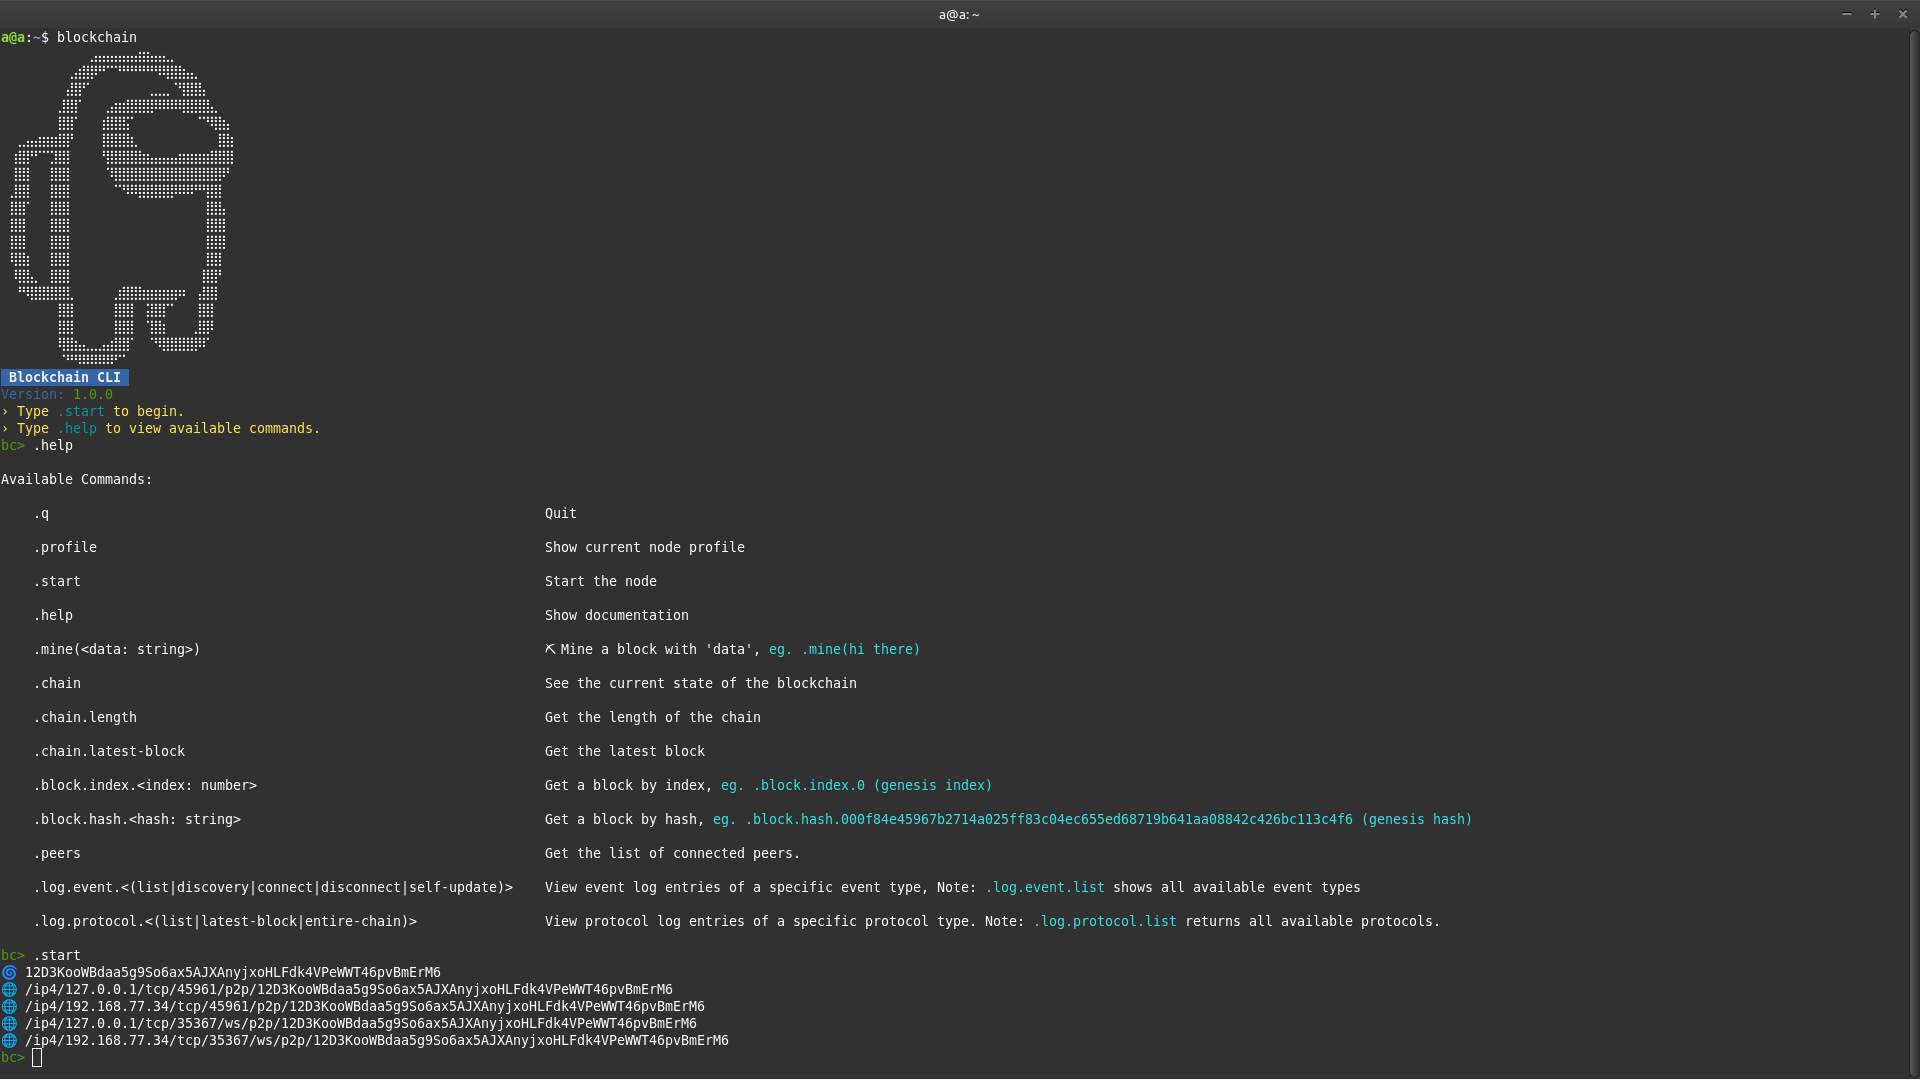
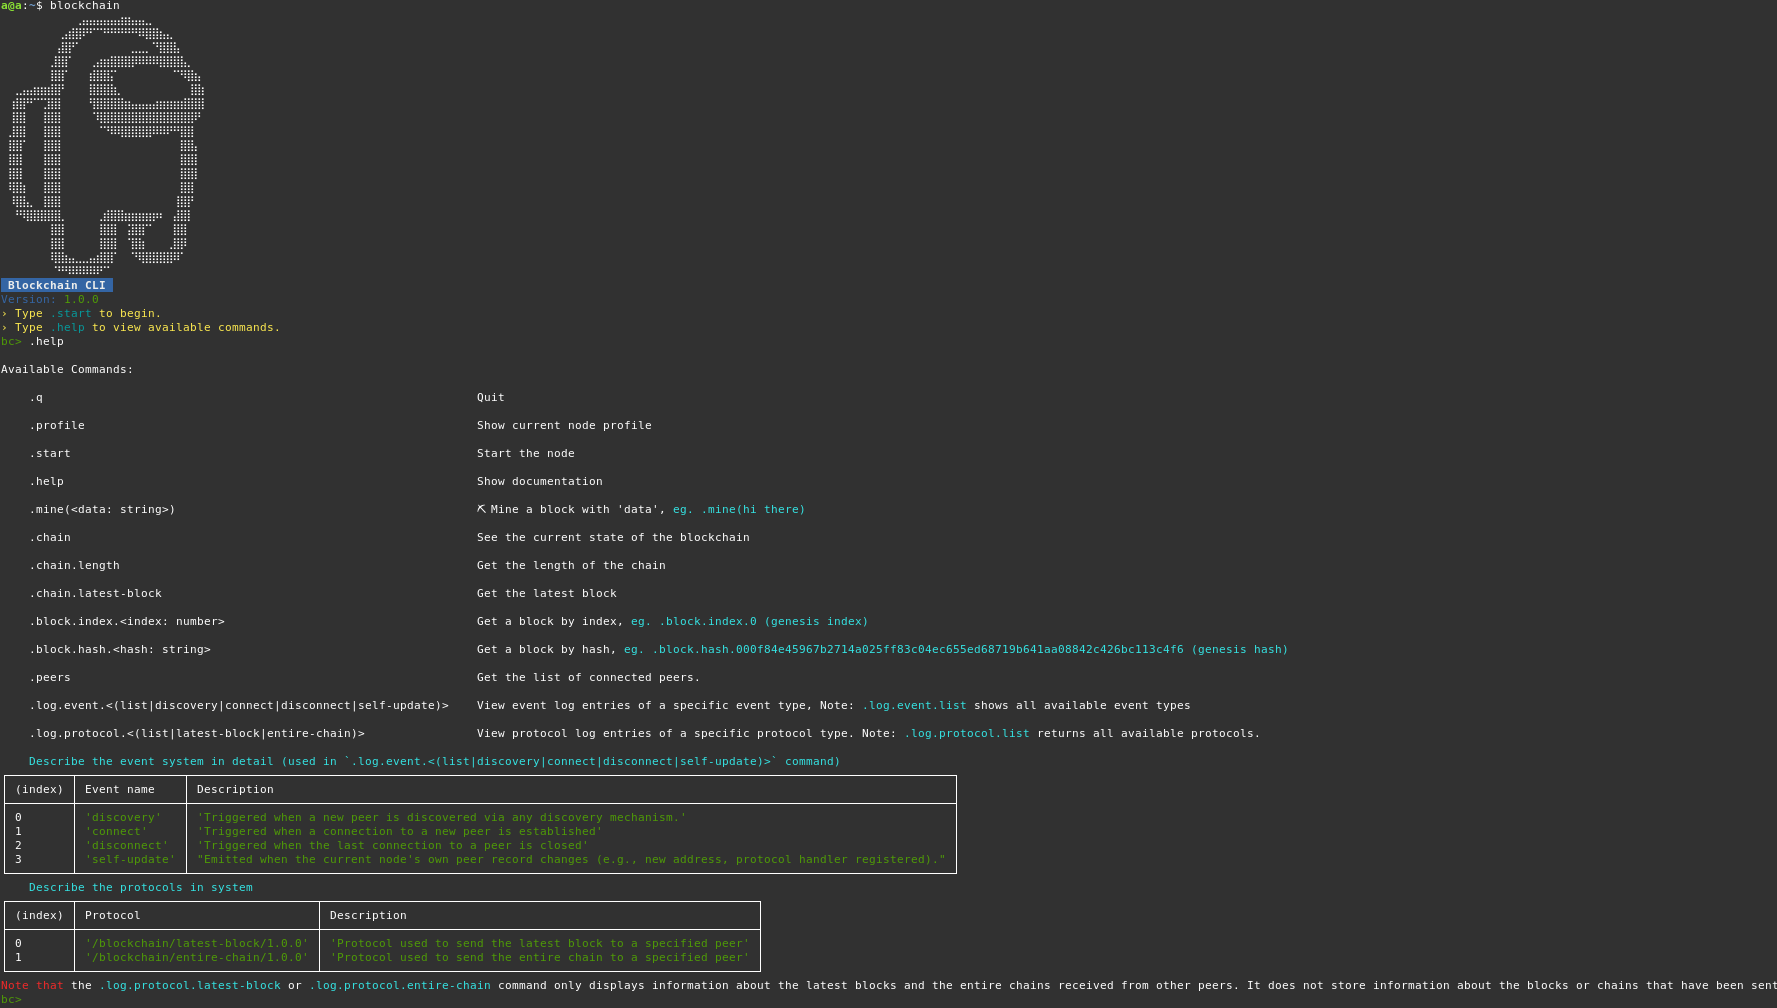
update readme and .help command

diff --git a/src/Node.ts b/src/Node.ts
@@ -195,7 +195,7 @@ class Node {
                 this.node?.peerStore.patch(peer, {
                     multiaddrs: multiaddrs
                 });
-                await this.requestLatestBlock(conn.detail.id);
+                await this.sendLatestBlock(conn.detail.id);
 
                 await updatePeerEventsLog(this.peerEventsLogFilePath, Date.now(), 'discovery', data);
 
@@ -263,7 +263,7 @@ class Node {
                 throw new Error("Error: Not started");
             }
             for (const peer of await this.node.peerStore.all()) {
-                await this.requestLatestBlock(peer.id);
+                await this.sendLatestBlock(peer.id);
             }
         } catch (e: any) {
             console.error(e.message || "BROADCAST ERROR");
@@ -286,7 +286,7 @@ class Node {
         }
     }
 
-    async requestLatestBlock(id: PeerId) {
+    async sendLatestBlock(id: PeerId) {
         try {
             if (this.node == null) {
                 throw new Error("Error: Not started");

diff --git a/README.md b/README.md
@@ -1,1 +1,1 @@
-![demo-1](./images/demo-1.png)
+![.help command](./images/demo-1.png)
